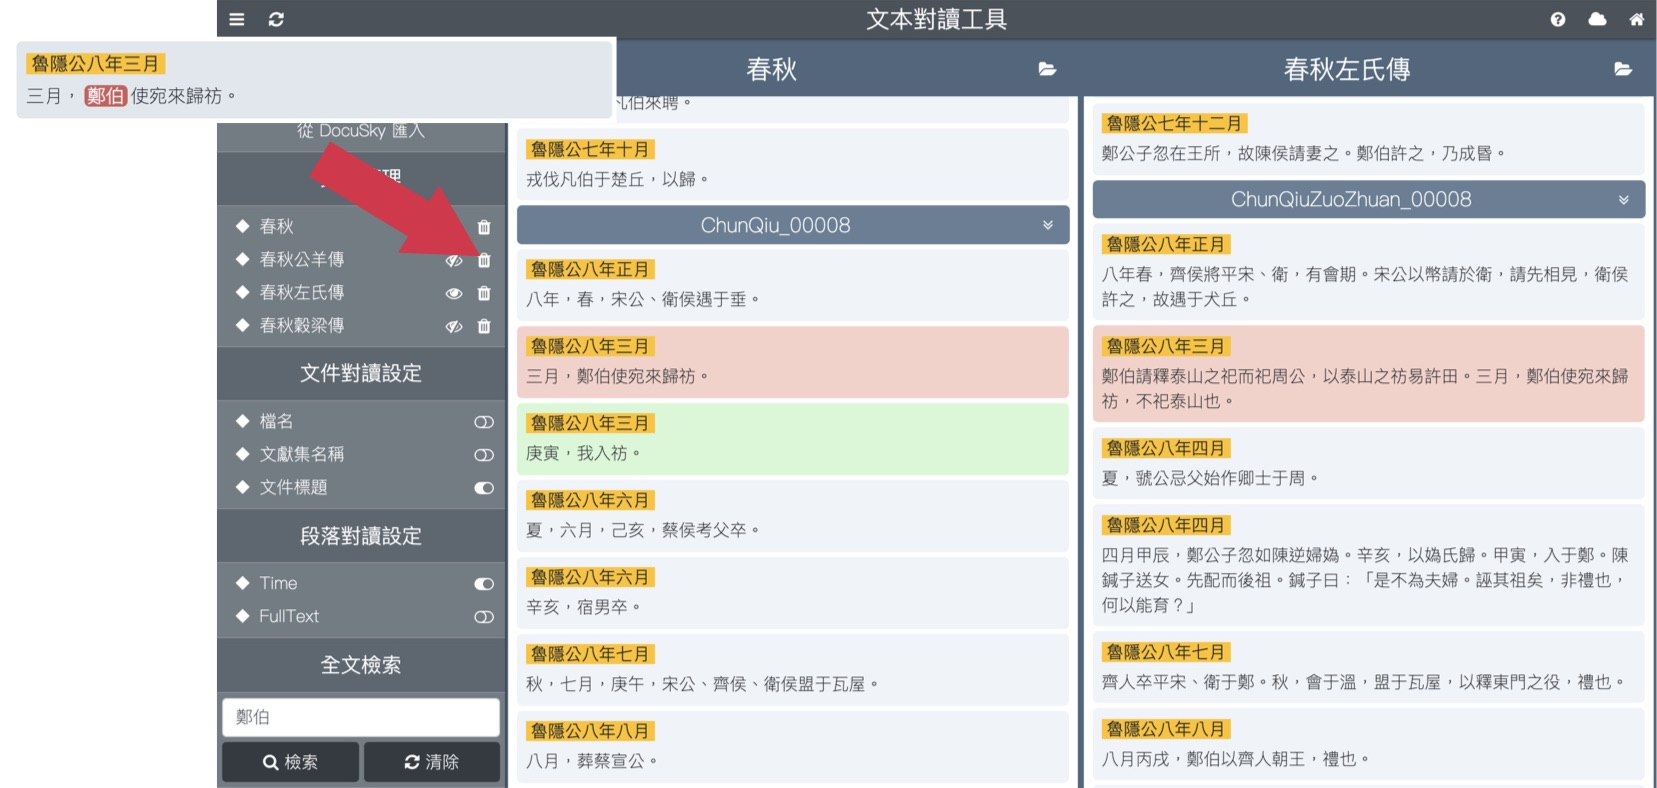
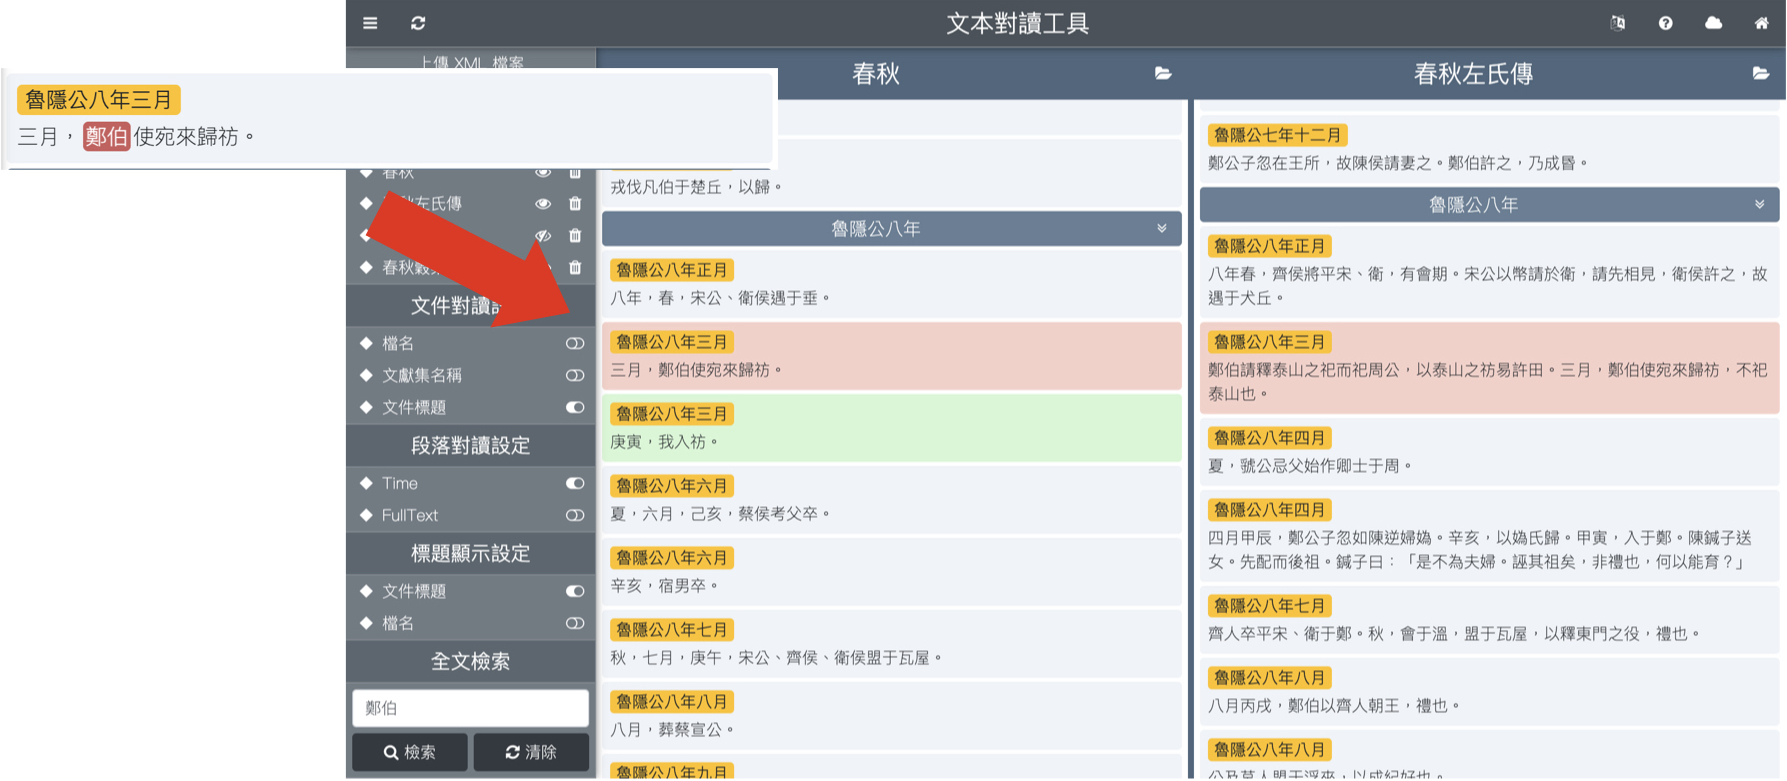
feat: update explain.

Changed region(s): [[0.0, 0.0, 1.0, 1.0]]

diff --git a/html/explain.html b/html/explain.html
@@ -16,7 +16,8 @@
 	<div class="explain-dir-item" data-key="3-2-2">　└ 3-2-2 文本管理</div>
 	<div class="explain-dir-item" data-key="3-2-3">　└ 3-2-3 文件對讀設定</div>
 	<div class="explain-dir-item" data-key="3-2-4">　└ 3-2-4 段落對讀設定</div>
-	<div class="explain-dir-item" data-key="3-2-5">　└ 3-2-5 全文檢索</div>
+	<div class="explain-dir-item" data-key="3-2-5">　└ 3-2-5 標題顯示設定</div>
+	<div class="explain-dir-item" data-key="3-2-6">　└ 3-2-6 全文檢索</div>
 	<div class="explain-dir-item" data-key="3-3">└ 3-3 文本顯示區</div>
 	<div class="explain-dir-item" data-key="3-3-1">　└ 3-3-1 標題區塊</div>
 	<div class="explain-dir-item" data-key="3-3-2">　└ 3-3-2 詮釋資料區塊</div>
@@ -293,7 +294,7 @@
 			</div>
 
 			<div class="text-center">
-				<img width="90%" src="images/3.jpeg">
+				<img width="90%" src="images/3.png">
 			</div>
 		</div>
 
@@ -305,6 +306,7 @@
 					<li><b>選單按鈕 <i class="fa fa-bars" aria-hidden="true"></i>：</b>隱藏/顯示 功能選單。</li>
 					<li><b>清除按鈕 <i class="fa fa-refresh" aria-hidden="true"></i>：</b>還原介面至未對讀前的狀態。</li>
 					<li><b>工具名稱：</b>文本對讀工具。</li>
+					<li><b>語言選單 <i class="fa fa-language" aria-hidden="true"></i>：</b>選擇語言。</li>
 					<li><b>說明按鈕 <i class="fa fa-question-circle" aria-hidden="true"></i>：</b>顯示本說明。</li>
 					<li><b>資料庫按鈕 <i class="fa fa-cloud" aria-hidden="true"></i>：</b>回到 DocuSky 個人雲端資料庫頁面。</li>
 					<li><b>首頁按鈕 <i class="fa fa-home" aria-hidden="true"></i>：</b>回到 DocuSky 首頁。</li>
@@ -373,12 +375,23 @@
 
 		<div class="multi-col" data-key="3-2-5" style="grid-template-columns: 2fr 1fr;">
 			<div>
-				<h6><b>3-2-5 全文檢索</b></h6>
+				<h6><b>3-2-5 標題顯示設定</b></h6>
+				<p>可選擇「文件標題」或者「檔名」當作標題區塊的顯示，以 <i class="fa fa-toggle-on" aria-hidden="true"></i> 圖示標示出目前被選定為標題顯示依據的資料，點按 <i class="fa fa-toggle-off" aria-hidden="true"></i> 圖示可以切換設定。</p>
+			</div>
+
+			<div class="text-center">
+				<img width="90%" src="images/3-2-5.png">
+			</div>
+		</div>
+
+		<div class="multi-col" data-key="3-2-6" style="grid-template-columns: 2fr 1fr;">
+			<div>
+				<h6><b>3-2-6 全文檢索</b></h6>
 				<p>在文字框中輸入檢索詞後，點按<b>「檢索」</b>進入搜尋模式、進行全文檢索詞搜尋並顯示結果；點按<b>「清除」</b>回到原本的對讀模式。</p>
 			</div>
 
 			<div class="text-center">
-				<img width="90%" src="images/3-2-5.jpeg">
+				<img width="90%" src="images/3-2-6.jpeg">
 			</div>
 		</div>
 
@@ -388,7 +401,7 @@
 				<p>本工具以文獻集 (corpus) 為單位，一份文獻集顯示為一獨立直欄，並包含以下內容：</p>
 				<ol>
 					<li><b>文本標題：</b>顯示文獻集名稱，右側 <i class="fa fa-folder-open" aria-hidden="true"></i> / <i class="fa fa-folder" aria-hidden="true"></i> 圖示可以 打開/關閉 文獻集的文件目錄。</li>
-					<li><b>文本目錄：</b>列出所有文件名稱，點選任一文件可以跳轉至該文件所在處。</li>
+					<li><b>文本目錄：</b>列出所有文件，點選任一文件可以跳轉至該文件所在處。</li>
 					<li><b>文本內容：</b>顯示每份文件，包含標題、詮釋資料、內文三種類型的區塊。</li>
 				</ol>
 				<ul class="notice">
@@ -397,14 +410,14 @@
 			</div>
 
 			<div class="text-center">
-				<img width="90%" src="images/3-3.jpeg">
+				<img width="90%" src="images/3-3.png">
 			</div>
 		</div>
 
 		<div class="multi-col" data-key="3-3-1" style="grid-template-columns: 1fr 1fr;">
 			<div>
 				<h6><b>3-3-1 標題區塊</b></h6>
-				<p>顯示文件檔名，以標示一份文件的開始。鼠標滑過會顯示目前文件間對讀依據的值 (Metadata Value)，點擊可觸發以下功能：</p>
+				<p>顯示「文件檔名」或者「文件標題」，以標示一份文件的開始。鼠標滑過會顯示目前文件間對讀依據的值 (Metadata Value)，點擊可觸發以下功能：</p>
 				<ul>
 					<li><b>右側 <i class="fa fa-angle-double-down" aria-hidden="true"></i> / <i class="fa fa-angle-double-up" aria-hidden="true"></i> 圖示：</b>打開/關閉 本文件的詮釋資料區塊。</li>
 					<li><b>區塊其餘部分：</b><span class="link" data-to="4">文件間對讀</span>。</li>
@@ -423,7 +436,7 @@
 			</div>
 
 			<div class="text-center">
-				<img width="90%" src="images/3-3-2.jpeg">
+				<img width="90%" src="images/3-3-2.png">
 			</div>
 		</div>
 
@@ -453,6 +466,10 @@
 					<li><b style="color: indianred;">紅色：</b>正在閱讀的區塊，點按該區塊將尋找其他文本的下一個閱讀目標。</li>
 				</ul>
 			</div>
+
+			<div class="text-center">
+				<img width="90%" src="images/4.png">
+			</div>
 		</div>
 	</div>
 
@@ -467,14 +484,14 @@
 			</div>
 
 			<div class="text-center">
-				<img width="90%" src="images/5.jpeg">
+				<img width="90%" src="images/5.png">
 			</div>
 		</div>
 
 		<div class="multi-col" data-key="5-1" style="grid-template-columns: 1fr 1fr;">
 			<div>
 				<h5>5-1 目錄</h5>
-				<p>列出所有包含檢索詞的文件檔名，與其內包含的檢索詞數量，點按任一文件可以跳轉至該文件所在處。</p>
+				<p>列出所有包含檢索詞的文件，與其內包含的檢索詞數量，點按任一文件可以跳轉至該文件所在處。</p>
 			</div>
 
 			<div class="text-center">
@@ -485,11 +502,11 @@
 		<div class="multi-col" data-key="5-2" style="grid-template-columns: 1fr 1fr;">
 			<div>
 				<h5>5-2 統計數據</h5>
-				<p>原本的詮釋資料區塊用作顯示每份文件的檢索統計數據，包含文件的檢索詞數量、含檢索詞的段落數量。</p>
+				<p>原本的詮釋資料區塊用作顯示每份文件的檢索統計數據，包含檢索詞數量、含檢索詞的段落數量。</p>
 			</div>
 
 			<div class="text-center">
-				<img width="90%" src="images/5-2.jpeg">
+				<img width="90%" src="images/5-2.png">
 			</div>
 		</div>
 

diff --git a/js/language/zh.js b/js/language/zh.js
@@ -1,5 +1,5 @@
 const _zh = {
-  title: '文本對讀系統',
+  title: '文本對讀工具',
   navMenu: '選單',
   navReset: '清除對讀',
   navReadme: '使用說明',
